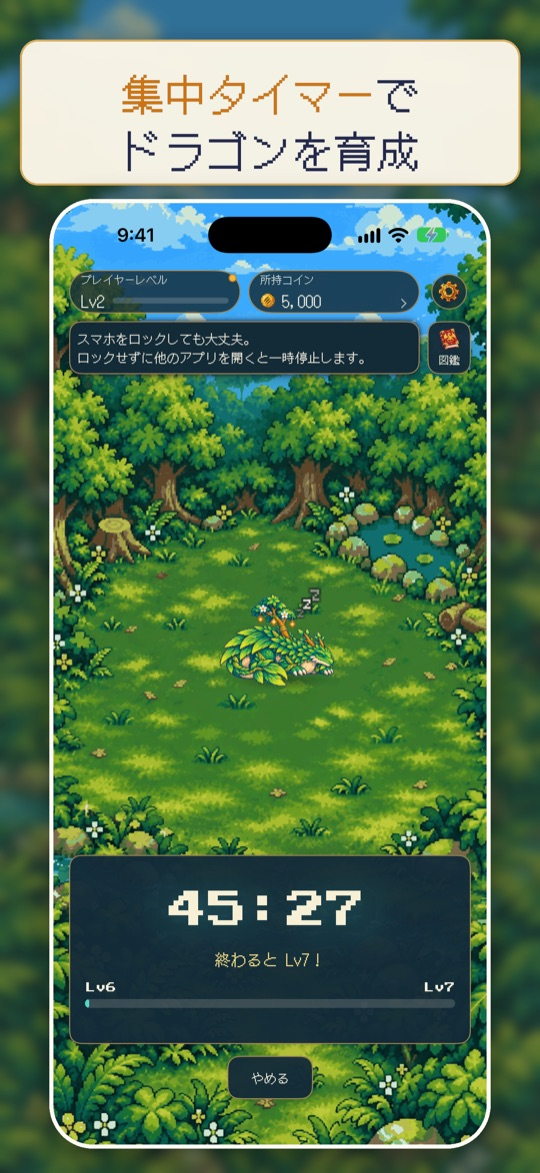
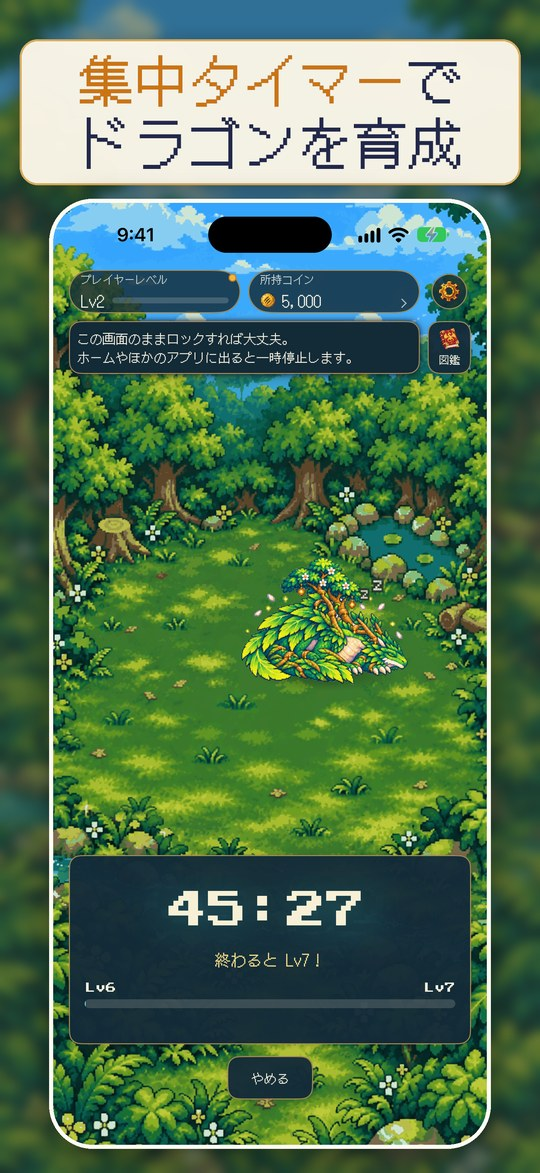
トップのフォーカスドラゴン：iPhone 版を公開したので App Store のバッジを押せるように・iPhone 版のサポートとプライバシーポリシーの行を戻した・札は「Android 版は近日公開」に。左の端末の絵を新しい 1 枚目（森の最終形態が真ん中で寝る集中中）に（だいきさん）

diff --git a/index.html b/index.html
@@ -71,27 +71,25 @@
 </div>
 </section>
 
-<!-- フォーカスドラゴン：iPhone は審査中・Android は製作中 → 近日公開。
-     公開したら：下の 2 つの a に href="<ストアの URL>" を足し、aria-disabled="true" を外す（片方だけ先に出すときは、出していない方はそのまま＝押せない）。
-     両方出したら「近日公開」の札（span class="status"）を消し、サポートとプライバシーポリシーの行のコメントを外す -->
+<!-- フォーカスドラゴン：iPhone は 2026-11-08 に公開（App Store のバッジを押せるように）・Android は審査中 → Android 版は近日公開。
+     Android を公開したら：Google Play の a に href="https://play.google.com/store/apps/details?id=<パッケージ名>" を足して aria-disabled="true" を外す・
+     「Android 版は近日公開」の札（span class="status"）を消す・下の Android 版のサポートとプライバシーポリシーの行のコメントを外す -->
 <section class="spread spread-dragon flip">
 <div class="wrap">
 <div class="copy reveal">
 <p class="label"><span class="num">02</span>APP</p>
 <img class="app-icon" src="/assets/dragon_focus_512.png" alt="フォーカスドラゴンのアイコン" width="92" height="92">
 <h2>フォーカスドラゴン</h2>
-<span class="status">近日公開<span class="en">Coming soon</span></span>
+<span class="status">Android 版は近日公開<span class="en">Android coming soon</span></span>
 <p class="tagline"><span>集中した時間がドラゴンの成長に！</span> <span>集中タイマー × ドラゴン育成</span></p>
 <div class="stores">
-<a class="badge" aria-disabled="true"><img src="https://toolbox.marketingtools.apple.com/api/badges/download-on-the-app-store/black/ja-jp?size=250x83" alt="App Store（近日公開）" height="50"></a>
-<a class="badge badge-play" aria-disabled="true"><img src="https://play.google.com/intl/ja/badges/static/images/badges/ja_badge_web_generic.png" alt="Google Play（製作中）" height="50"></a>
+<a class="badge" href="https://apps.apple.com/jp/app/id6826029997"><img src="https://toolbox.marketingtools.apple.com/api/badges/download-on-the-app-store/black/ja-jp?size=250x83" alt="App Store からダウンロード" height="50"></a>
+<a class="badge badge-play" aria-disabled="true"><img src="https://play.google.com/intl/ja/badges/static/images/badges/ja_badge_web_generic.png" alt="Google Play（近日公開）" height="50"></a>
 </div>
-<!-- 公開するまでは、サポートとプライバシーポリシーへのリンクをトップに出さない（2026-10-30 だいきさん）。ページ自体（/dragon_focus/support/・/dragon_focus/privacy/・/dragon_focus/android/…）は App Store Connect に登録した URL なのでそのまま。公開したら下の行を戻す
-<p class="links"><span>iPhone 版：<a href="/dragon_focus/support/">サポート</a> · <a href="/dragon_focus/privacy/">プライバシーポリシー</a></span><br><span>Android 版：<a href="/dragon_focus/android/support/">サポート</a> · <a href="/dragon_focus/android/privacy/">プライバシーポリシー</a></span></p>
--->
+<p class="links"><span>iPhone 版：<a href="/dragon_focus/support/">サポート</a> · <a href="/dragon_focus/privacy/">プライバシーポリシー</a></span><!-- Android を公開したら戻す：<br><span>Android 版：<a href="/dragon_focus/android/support/">サポート</a> · <a href="/dragon_focus/android/privacy/">プライバシーポリシー</a></span> --></p>
 </div>
 <div class="duo reveal-duo">
-<img src="/assets/dragon_focus_screen_1.jpg" alt="フォーカスドラゴンの画面" loading="lazy" width="540" height="1173">
+<img src="/assets/dragon_focus_screen_1.jpg?v=20261108" alt="フォーカスドラゴンの画面" loading="lazy" width="540" height="1173">
 <img src="/assets/dragon_focus_screen_2.jpg?v=20261106c" alt="フォーカスドラゴンのドラゴンのイラスト" loading="lazy" width="540" height="1173">
 </div>
 </div>
